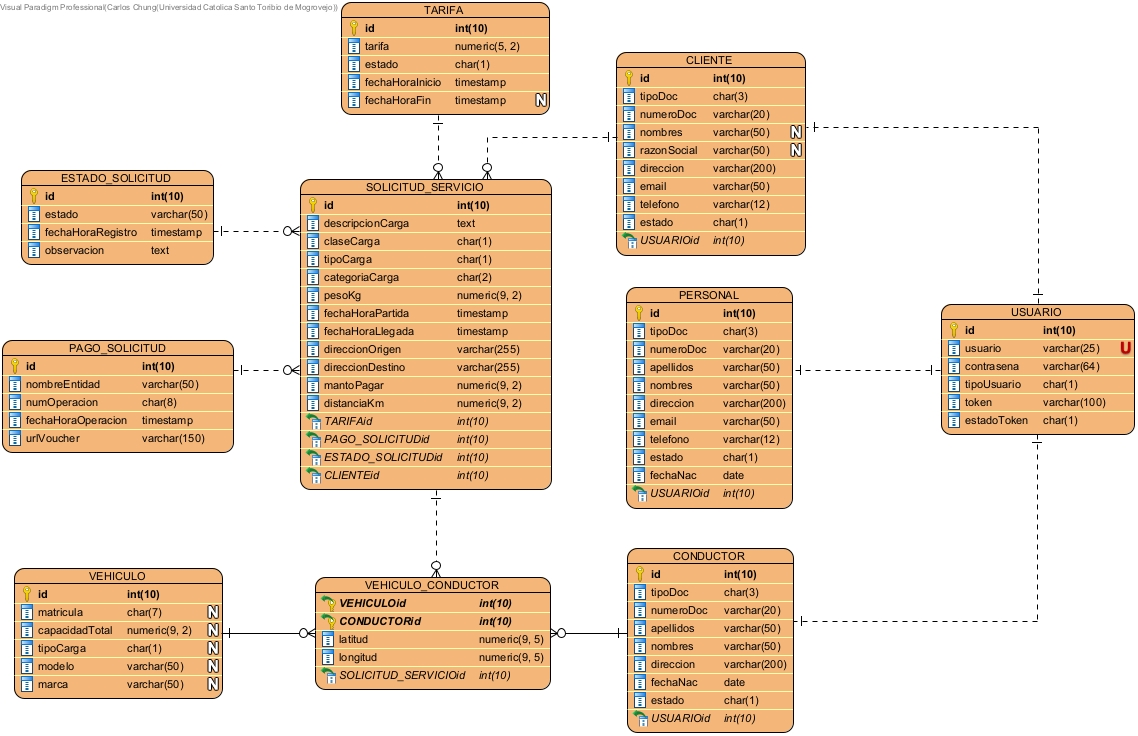
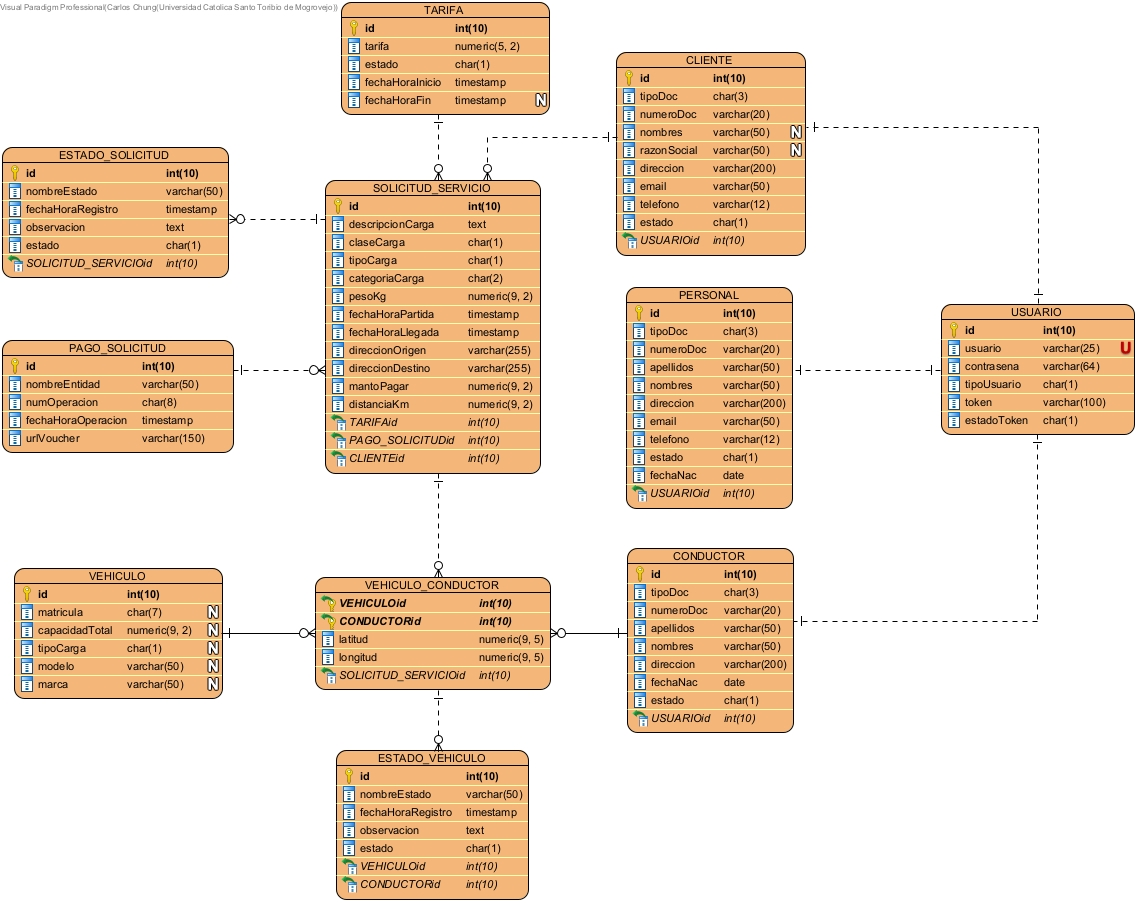
clases de la bd

diff --git a/models/solicitudServicio.py b/models/solicitudServicio.py
@@ -1,0 +1,20 @@
+from conexionBD import Conexion as db
+import json
+
+class SolicitudServicio:
+    def __init__(self, id_solicitud=None, descripcion_carga=None, clase_carga=None, tipo_carga=None, categoria_carga=None, peso_kg=None, fecha_hora_partida=None, fecha_hora_llegada=None, direccion_origen=None, direccion_destino=None, monto_pagar=None, distancia_km=None, tarifa_id=None, pago_solicitud_id=None, estado_solicitud_id=None, cliente_id=None):
+        self.id_solicitud = id_solicitud
+        self.descripcion_carga = descripcion_carga
+        self.clase_carga = clase_carga
+        self.tipo_carga = tipo_carga
+        self.categoria_carga = categoria_carga
+        self.peso_kg = peso_kg
+        self.fecha_hora_partida = fecha_hora_partida
+        self.fecha_hora_llegada = fecha_hora_llegada
+        self.direccion_origen = direccion_origen
+        self.direccion_destino = direccion_destino
+        self.monto_pagar = monto_pagar
+        self.distancia_km = distancia_km
+        self.tarifa_id = tarifa_id
+        self.pago_solicitud_id = pago_solicitud_id
+        self.cliente_id = cliente_id

diff --git a/models/personal.py b/models/personal.py
@@ -1,0 +1,16 @@
+from conexionBD import Conexion as db
+import json
+
+class Personal:
+    def __init__(self, id_personal=None, tipo_doc=None, numero_doc=None, apellidos=None, nombres=None, direccion=None, email=None, telefono=None, estado=None, fecha_nac=None, usuario_id=None):
+        self.id_personal = id_personal
+        self.tipo_doc = tipo_doc
+        self.numero_doc = numero_doc
+        self.apellidos = apellidos
+        self.nombres = nombres
+        self.direccion = direccion
+        self.email = email
+        self.telefono = telefono
+        self.estado = estado
+        self.fecha_nac = fecha_nac
+        self.usuario_id = usuario_id

diff --git a/models/cliente.py b/models/cliente.py
@@ -1,0 +1,15 @@
+from conexionBD import Conexion as db
+import json
+
+class Cliente:
+    def __init__(self, id_cliente=None, tipo_doc=None, numero_doc=None, nombres=None, razon_social=None, direccion=None, email=None, telefono=None, estado=None, usuario_id=None):
+        self.id_cliente = id_cliente
+        self.tipo_doc = tipo_doc
+        self.numero_doc = numero_doc
+        self.nombres = nombres
+        self.razon_social = razon_social
+        self.direccion = direccion
+        self.email = email
+        self.telefono = telefono
+        self.estado = estado
+        self.usuario_id = usuario_id

diff --git a/models/conductor.py b/models/conductor.py
@@ -1,0 +1,14 @@
+from conexionBD import Conexion as db
+import json
+
+class Conductor:
+    def __init__(self, id_conductor=None, tipo_doc=None, numero_doc=None, apellidos=None, nombres=None, direccion=None, fecha_nac=None, estado=None, usuario_id=None):
+        self.id_conductor = id_conductor
+        self.tipo_doc = tipo_doc
+        self.numero_doc = numero_doc
+        self.apellidos = apellidos
+        self.nombres = nombres
+        self.direccion = direccion
+        self.fecha_nac = fecha_nac
+        self.estado = estado
+        self.usuario_id = usuario_id

diff --git a/models/estadoVehiculo.py b/models/estadoVehiculo.py
@@ -1,0 +1,12 @@
+from conexionBD import Conexion as db
+import json
+
+class EstadoVehiculo:
+    def __init__(self, id_estado=None, nombre_estado=None, fecha_hora_registro=None, observacion=None, estado=None, vehiculo_id=None, conductor_id=None):
+        self.id_estado = id_estado
+        self.nombre_estado = nombre_estado
+        self.fecha_hora_registro = fecha_hora_registro
+        self.observacion = observacion
+        self.estado = estado
+        self.vehiculo_id = vehiculo_id
+        self.conductor_id = conductor_id

diff --git a/models/estadoSolicitud.py b/models/estadoSolicitud.py
@@ -1,0 +1,11 @@
+from conexionBD import Conexion as db
+import json
+
+class EstadoSolicitud:
+    def __init__(self, id_estado=None, nombre_estado=None, fecha_hora_registro=None, observacion=None, estado=None, solicitud_servicio_id=None):
+        self.id_estado = id_estado
+        self.nombre_estado = nombre_estado
+        self.fecha_hora_registro = fecha_hora_registro
+        self.observacion = observacion
+        self.estado = estado
+        self.solicitud_servicio_id = solicitud_servicio_id

diff --git a/models/pagoSolicitud.py b/models/pagoSolicitud.py
@@ -1,0 +1,10 @@
+from conexionBD import Conexion as db
+import json
+
+class PagoSolicitud:
+    def __init__(self, id_pago=None, nombre_entidad=None, num_operacion=None, fecha_hora_operacion=None, url_voucher=None):
+        self.id_pago = id_pago
+        self.nombre_entidad = nombre_entidad
+        self.num_operacion = num_operacion
+        self.fecha_hora_operacion = fecha_hora_operacion
+        self.url_voucher = url_voucher

diff --git a/models/vehiculo.py b/models/vehiculo.py
@@ -1,0 +1,11 @@
+from conexionBD import Conexion as db
+import json
+
+class Vehiculo:
+    def __init__(self, id_vehiculo=None, matricula=None, capacidad_total=None, tipo_carga=None, modelo=None, marca=None):
+        self.id_vehiculo = id_vehiculo
+        self.matricula = matricula
+        self.capacidad_total = capacidad_total
+        self.tipo_carga = tipo_carga
+        self.modelo = modelo
+        self.marca = marca

diff --git a/models/usuario.py b/models/usuario.py
@@ -1,0 +1,11 @@
+from conexionBD import Conexion as db
+import json
+
+class Usuario:
+    def __init__(self, id_usuario=None, usuario=None, contrasena=None, tipo_usuario=None, token=None, estado_token=None):
+        self.id_usuario = id_usuario
+        self.usuario = usuario
+        self.contrasena = contrasena
+        self.tipo_usuario = tipo_usuario
+        self.token = token
+        self.estado_token = estado_token

diff --git a/models/vehiculoConductor.py b/models/vehiculoConductor.py
@@ -1,0 +1,10 @@
+from conexionBD import Conexion as db
+import json
+
+class VehiculoConductor:
+    def __init__(self, vehiculo_id=None, conductor_id=None, latitud=None, longitud=None, solicitud_servicio_id=None):
+        self.vehiculo_id = vehiculo_id
+        self.conductor_id = conductor_id
+        self.latitud = latitud
+        self.longitud = longitud
+        self.solicitud_servicio_id = solicitud_servicio_id

diff --git a/models/tarifa.py b/models/tarifa.py
@@ -1,0 +1,10 @@
+from conexionBD import Conexion as db
+import json
+
+class Tarifa:
+    def __init__(self, id_tarifa=None, tarifa=None, estado=None, fecha_hora_inicio=None, fecha_hora_fin=None):
+        self.id_tarifa = id_tarifa
+        self.tarifa = tarifa
+        self.estado = estado
+        self.fecha_hora_inicio = fecha_hora_inicio
+        self.fecha_hora_fin = fecha_hora_fin

diff --git a/config.py b/config.py
@@ -3,7 +3,7 @@ class Config():
     DB_PORT = 3306
     DB_USER = 'root'
     DB_PASSWORD = ''
-    DB_NAME = 'bdcomercial'
+    DB_NAME = 'bdRapidisimo'
 
 
 class SecretKey():
